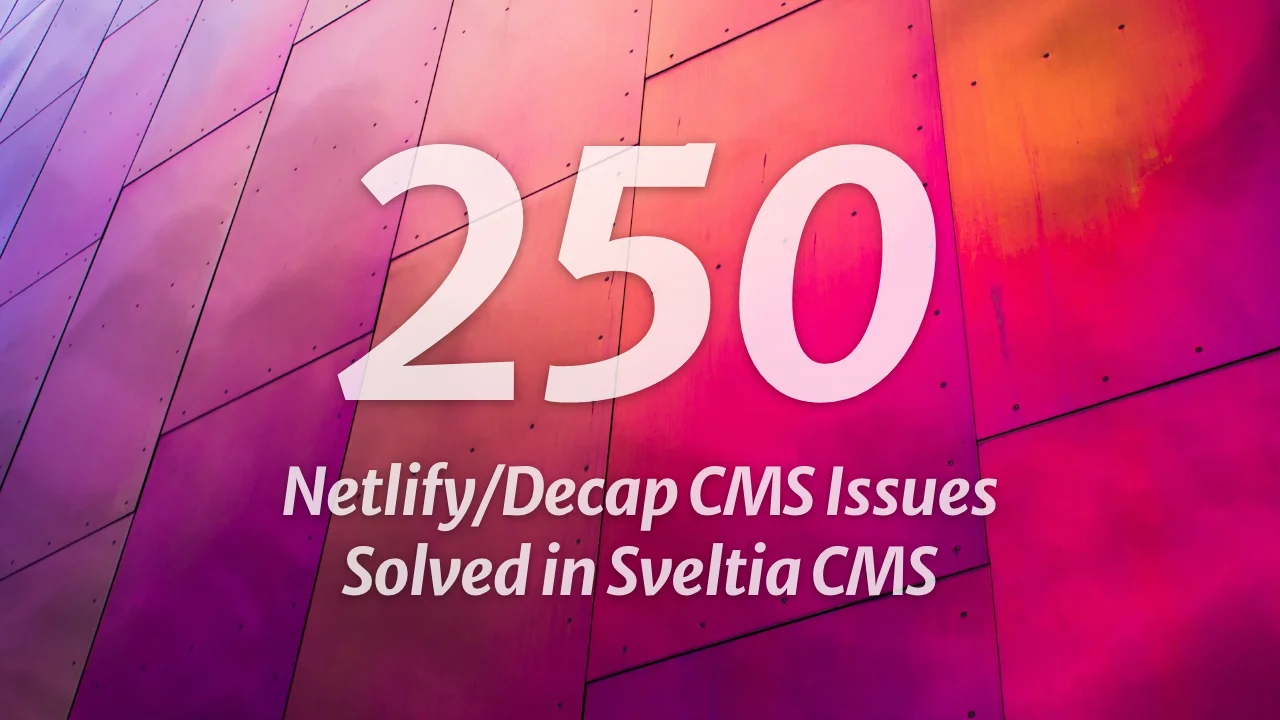
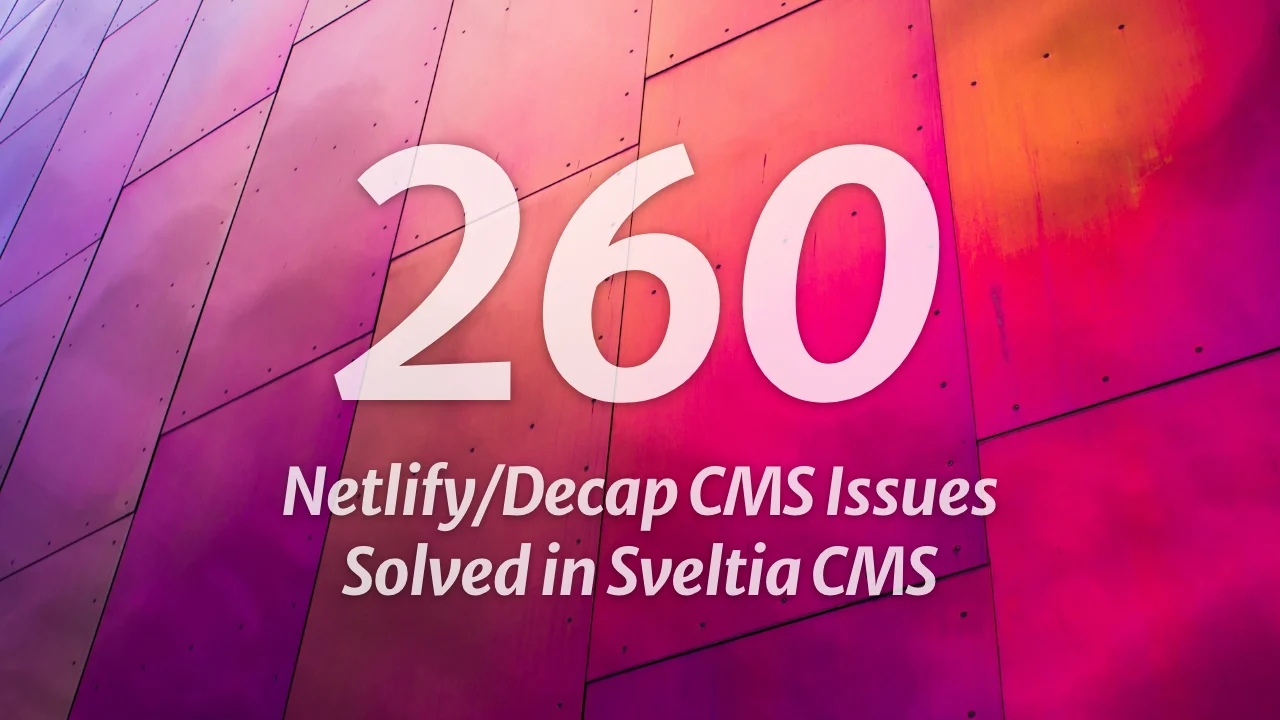
Update README.md

diff --git a/README.md b/README.md
@@ -1,6 +1,6 @@
 # Sveltia CMS: Netlify/Decap CMS successor
 
-Sveltia CMS is a Git-based lightweight headless CMS under active development as a modern, powerful, quick replacement for Netlify CMS and Decap CMS. While some features are still missing, we’ve already solved over 250 issues reported in the predecessor’s repository, from critical bugs to top feature requests.
+Sveltia CMS is a Git-based lightweight headless CMS under active development as a modern, powerful, quick replacement for Netlify CMS and Decap CMS. While some features are still missing, we’ve already solved over 260 issues reported in the predecessor’s repository, from critical bugs to top feature requests.
 
 Built from the ground up, Sveltia CMS offers excellent UX, DX, performance, security and internationalization (i18n) support. Our numerous enhancements across the board ensure smooth daily workflows. This free, open source alternative to Netlify/Decap CMS is now in public beta, with version 1.0 expected in early 2026.
 
@@ -124,7 +124,7 @@ Due to its unfortunate abandonment in early 2022, Netlify CMS spawned 3 successo
 - **Sveltia CMS**: not a fork but a **complete rewrite**
   - Started in November 2022, first appeared on GitHub in March 2023
   - ✅ Actively developed with frequent releases and numerous improvements
-  - ✅ Solved more than 250 issues reported in the Netlify/Decap CMS repository
+  - ✅ Solved more than 260 issues reported in the Netlify/Decap CMS repository
 - [Decap CMS](https://github.com/decaporg/decap-cms): a rebranded version
   - [Announced in February 2023](https://www.netlify.com/blog/netlify-cms-to-become-decap-cms/) as an official continuation with a Netlify agency partner taking ownership
   - ⚠ Mostly low activity with occasional releases and a few minor improvements
@@ -160,7 +160,7 @@ While we fix reported bugs as quickly as possible, usually within 24 hours, our 
   - Some missing features will be implemented before or shortly after GA
 - Providing partial [compatibility with Static CMS](#compatibility-with-static-cms)
 - Tackling as many [Netlify/Decap CMS issues](https://github.com/decaporg/decap-cms/issues) as possible
-  - So far, **250+ issues, or 550+ if including duplicates, have been effectively solved** in Sveltia CMS (Yes, you read it right)
+  - So far, **260+ issues, or 550+ if including duplicates, have been effectively solved** in Sveltia CMS (Yes, you read it right)
   - Target:
     - 250 issues, or 500 if including duplicates, by GA — We did it! 🎉
     - 400 issues, or 800 if including duplicates, in the future 💪
@@ -174,7 +174,7 @@ While we fix reported bugs as quickly as possible, usually within 24 hours, our 
 - Responding to requests from the maintainer’s clients
 - Making the code clean and maintainable
 
-![250 Netlify/Decap CMS issues solved in Sveltia CMS](https://raw.githubusercontent.com/sveltia/sveltia-cms/main/docs/headline-1.webp?20250814)<br>
+![260 Netlify/Decap CMS issues solved in Sveltia CMS](https://raw.githubusercontent.com/sveltia/sveltia-cms/main/docs/headline-1.webp?20251005)<br>
 
 ## Differentiators
 
@@ -603,6 +603,8 @@ Sveltia CMS supports all the [built-in widgets](https://decapcms.org/docs/widget
     - It comes with a [built-in image optimizer](#optimizing-images-for-upload). With a few lines of configuration, images selected by users for upload are automatically converted to WebP format for reduced size,[^199] and it’s also possible to specify a maximum width and/or height.[^200] SVG images can also be optimized.
     - The `max_file_size` option for the File/Image widget can be defined within the global `media_library` option, using `default` as the library name. It applies to all File/Image entry fields, as well as direct uploads to the Asset Library. The option can also be part of the [new `media_libraries` option](#configuring-multiple-media-libraries).
     - Unlike Netlify/Decap CMS, files are uploaded with their original names. Sanitization is still applied to avoid issues with special characters, but uppercase letters and spaces are not converted to lowercase letters and hyphens.[^97] If you want to slugify filenames according to the [`slug` option](https://decapcms.org/docs/configuration-options/#slug-type), use the `slugify_filename` [default media library option](#configuring-multiple-media-libraries).
+  - Uploadcare
+    - An API-based integration allows users to select existing files from their Uploadcare account.[^247]
   - Other integrations
     - Integrates stock photo providers, including Pexels, Pixabay and Unsplash.[^8] Developers can [disable them](#disabling-stock-assets) if needed.
     - More integration options, including Amazon S3 and Cloudflare R2/Images/Stream, would be added in the future.
@@ -630,6 +632,7 @@ Sveltia CMS supports all the [built-in widgets](https://decapcms.org/docs/widget
 ### Better localization
 
 - The application UI locale is automatically selected based on the preferred language set with the browser.[^132] Users can also change the locale in the application settings. Therefore, the `locale` configuration option is ignored and `CMS.registerLocale()` is not required.
+- The application UI is ready to be localized into RTL languages like Arabic and Hebrew.[^245]
 - The List widget’s `label` and `label_singular` are not converted to lowercase, which is especially problematic in German, where all nouns are capitalized.[^98]
 - Long menu item labels, especially in non-English locales, don’t overflow the dropdown container.[^117][^265]
 
@@ -644,7 +647,7 @@ However, 100% feature parity is never planned, and some features are still missi
 These Netlify/Decap CMS features are not yet implemented in Sveltia CMS. We are working hard to add them before the 1.0 release due early 2026. Check our [release notes](https://github.com/sveltia/sveltia-cms/releases) and [Bluesky](https://bsky.app/profile/sveltiacms.app) for updates.
 
 - Comprehensive site config validation
-- [Cloudinary](https://decapcms.org/docs/cloudinary/) and [Uploadcare](https://decapcms.org/docs/uploadcare/) media libraries ([#4](https://github.com/sveltia/sveltia-cms/discussions/4))
+- [Cloudinary](https://decapcms.org/docs/cloudinary/) media library ([#4](https://github.com/sveltia/sveltia-cms/discussions/4))
 - Preview for [custom editor components](https://decapcms.org/docs/custom-widgets/#registereditorcomponent)
 - [Custom widgets](https://decapcms.org/docs/custom-widgets/)
 - [Custom preview templates](https://decapcms.org/docs/customization/#registerpreviewtemplate) ([#51](https://github.com/sveltia/sveltia-cms/issues/51))
@@ -1350,7 +1353,7 @@ media_libraries:
       defaultOperations: '/resize/800x600/'
 ```
 
-Note: Cloudinary and Uploadcare are not yet supported in Sveltia CMS.
+Note: Cloudinary is not yet supported in Sveltia CMS.
 
 Similar to the conventional `media_library` option, the unified `media_libraries` option can also be defined for each File/Image field. This allows you to use different media library configurations for different fields. For example, you can optimize images for upload in one field while using the default settings in another:
 
@@ -1908,8 +1911,7 @@ Due early 2026
 
 - Enhanced [compatibility with Netlify/Decap CMS](#current-limitations)
 - Tackling some more Netlify/Decap CMS issues:
-  - Several Cloudinary and Uploadcare media library issues, including authentication[^288] and file selection[^247]
-  - [RTL localization support](https://github.com/sveltia/sveltia-cms/issues/385)[^245]
+  - Several Cloudinary media library issues, including authentication[^288]
   - Thorough site config validation[^246]
   - [Entry pre-validation/normalization](https://github.com/sveltia/sveltia-cms/issues/395)[^248]
 - Accessibility audit
@@ -1970,6 +1972,7 @@ Due late 2026
   - Scheduled posts[^167]
   - [Credential management](https://github.com/sveltia/sveltia-cms/issues/444) for service API keys, deploy hook URL, etc.
   - Proxy for services that don’t support [CORS](https://developer.mozilla.org/en-US/docs/Web/HTTP/Guides/CORS):
+    - Cloudinary media library’s file listing
     - [DeepL Translate](https://github.com/sveltia/sveltia-cms/issues/437)
     - [Git LFS support for GitHub](https://github.com/sveltia/sveltia-cms/discussions/353)[^244]
 - Search enhancements:
